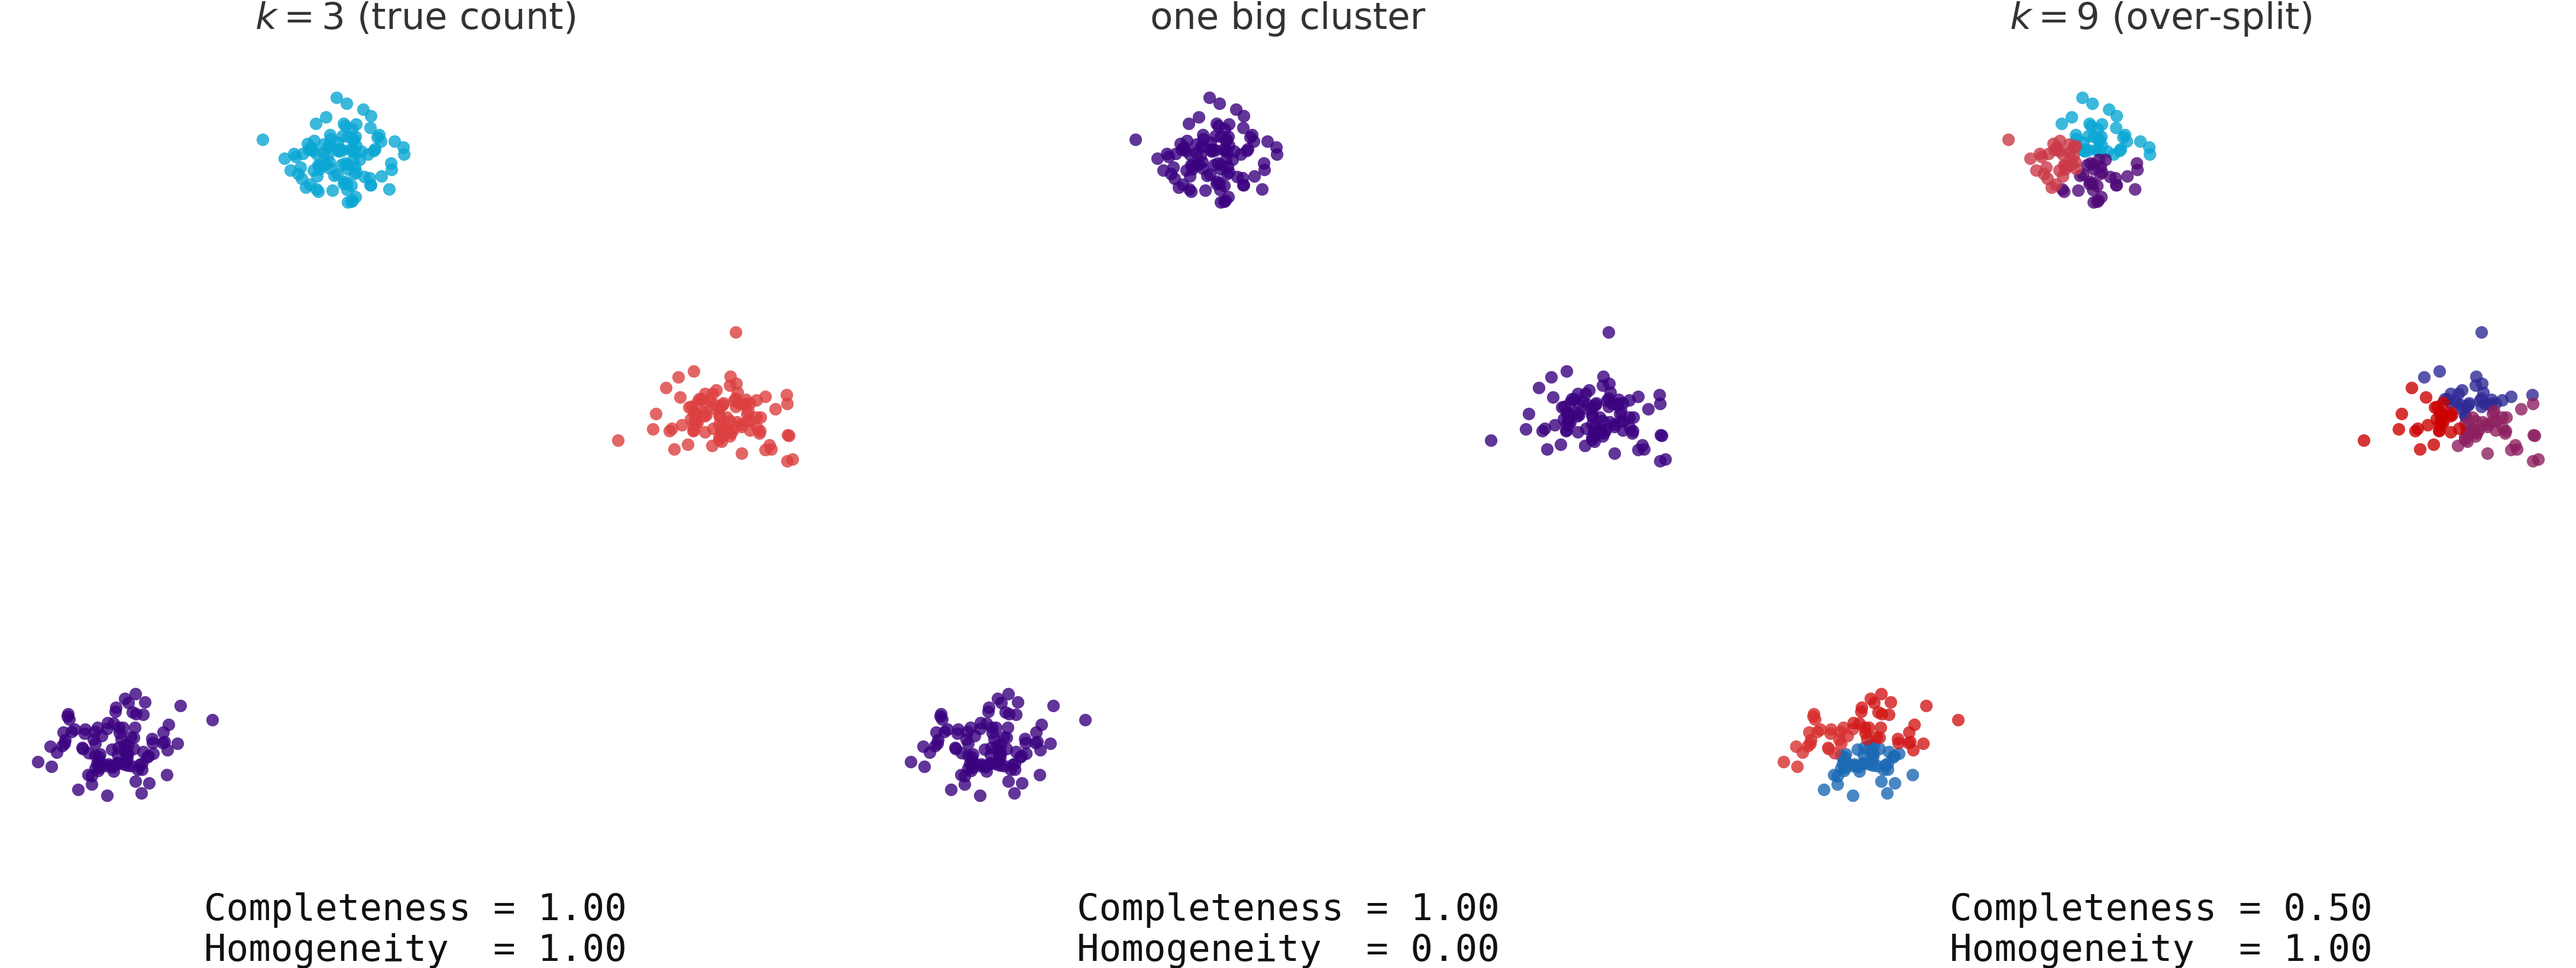
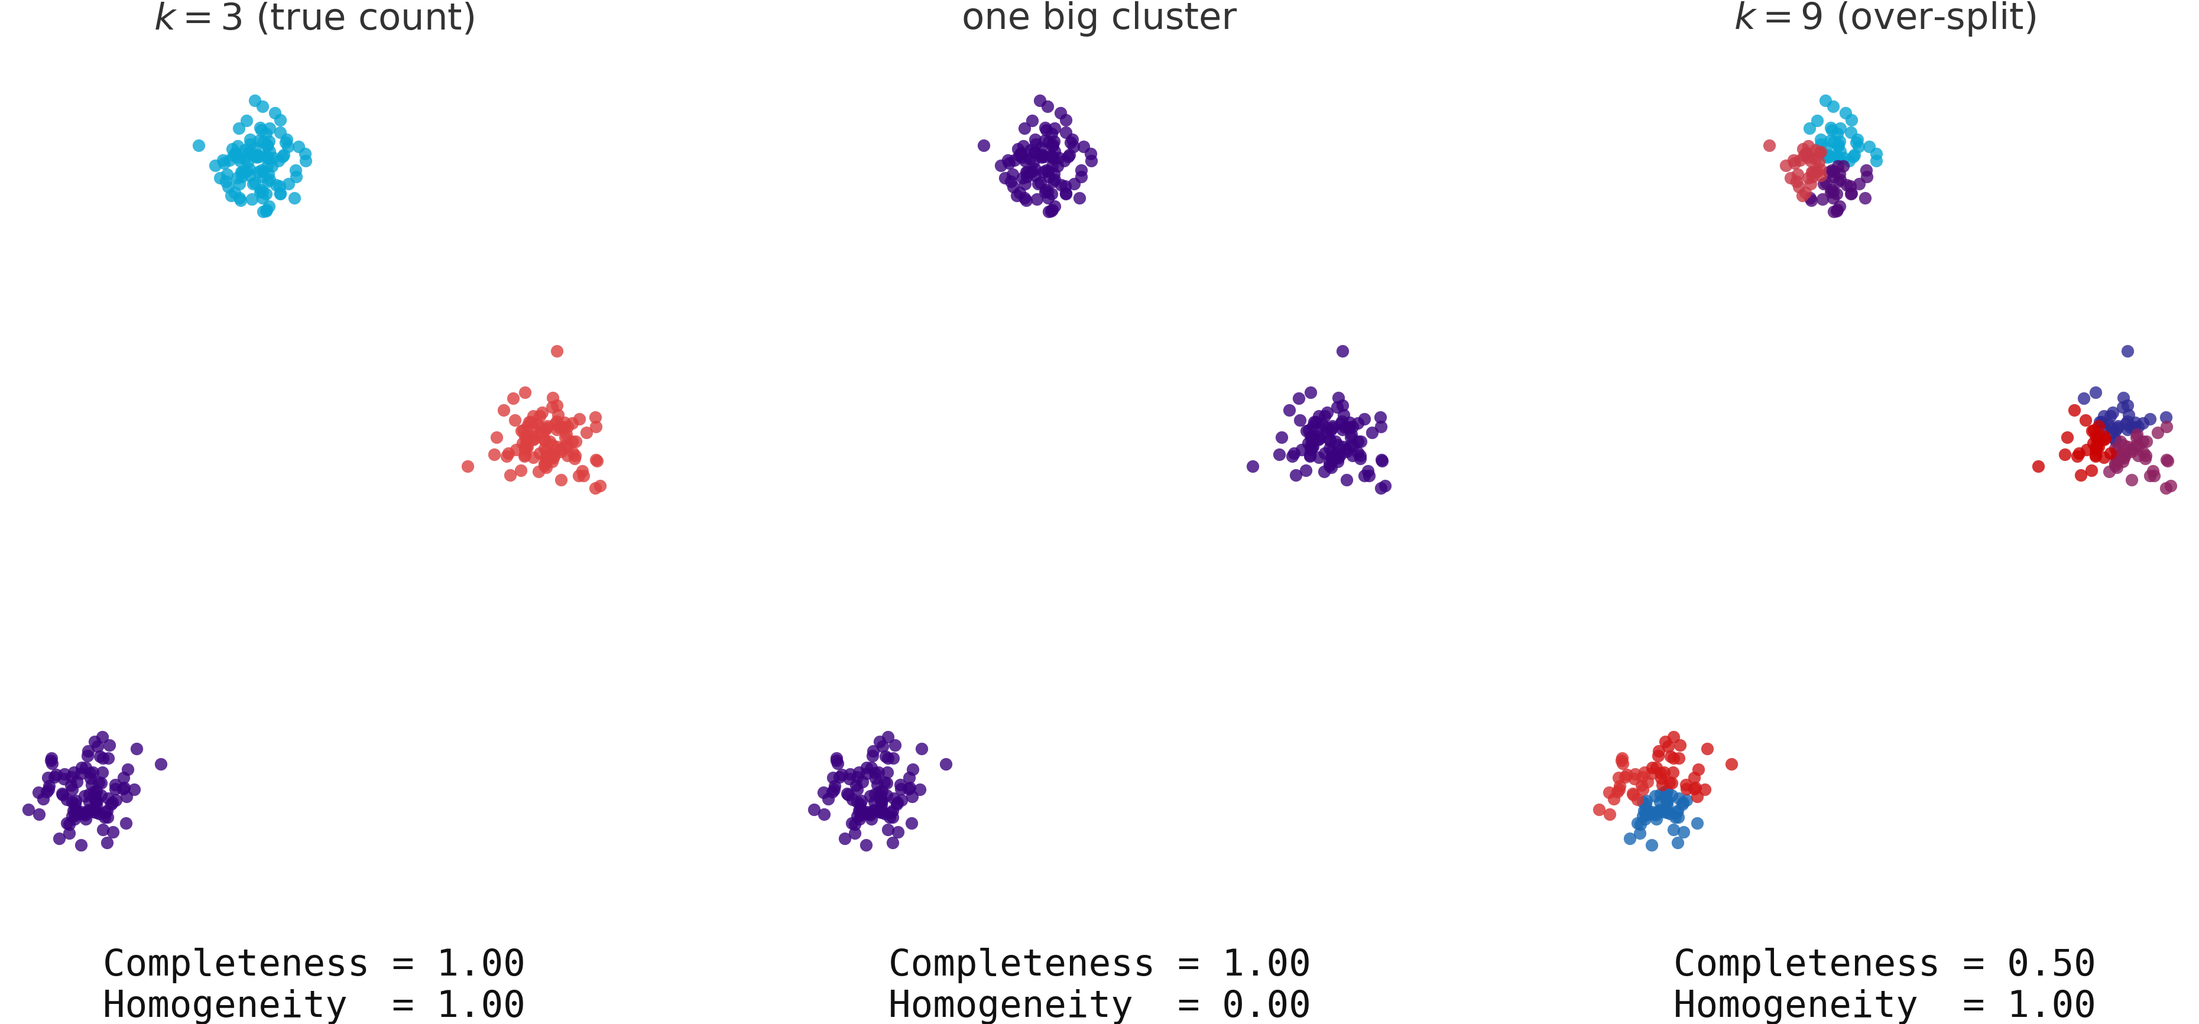
address ch4 review notes

diff --git a/book/4-clustering.tex b/book/4-clustering.tex
@@ -63,7 +63,7 @@ For cross-dataset comparison on a bounded $[0, 1]$ scale, use NMI. For chance-ad
 \section{Rand Index}
 \subsection{Rand Index}
 
-The Rand Index (RI) counts pair-agreements: out of all pairs of points, what fraction do the predicted clustering and the reference agree on --- either placing the pair together ($TP$) or apart ($TN$). Random labels on $3$ balanced classes already produce $RI \approx 0.56$, which is why the chance-corrected Adjusted Rand Index (ARI) exists.
+The Rand Index (RI) is the fraction of point pairs on which two clusterings agree --- whether they both place the pair together, or both separate them. On three balanced classes with random labels, $RI \approx 0.56$ already: most pairs are correctly apart by chance, so RI inflates regardless of clustering quality. The Adjusted Rand Index (ARI) subtracts that chance baseline, so a score of $0$ means random and $1$ means identical clusterings.
 
 \begin{center}
     \tikz{
@@ -79,7 +79,7 @@ The Rand Index (RI) counts pair-agreements: out of all pairs of points, what fra
     }
 \end{center}
 
-RI ranges from $0$ to $1$, but the chance baseline depends on the number of clusters and approaches $1$ as $k$ grows --- raw RI drifts upward regardless of clustering quality. ARI subtracts that baseline and lands on a $[-0.5, 1]$ scale: $0$ means no better than random, $1$ means identical clusterings.
+RI ranges from $0$ to $1$, but the chance baseline depends on the number of clusters and approaches $1$ as $k$ grows --- raw RI drifts upward regardless of clustering quality. ARI's chance-corrected scale runs from $-0.5$ to $1$.
 
 \textbf{When to use the Rand Index?}
 
@@ -189,7 +189,7 @@ The Contingency Matrix is the clustering analog of a confusion matrix: rows are 
     }
 \end{center}
 
-Reading the matrix is the diagnostic act: large diagonal entries mean clusters align with classes, large off-diagonals identify which classes the algorithm conflates. Row sums recover class sizes and column sums recover cluster sizes --- a mismatch between them flags imbalanced clusters.
+Large diagonal entries mean clusters align with classes; large off-diagonals identify which classes the algorithm conflates. Row sums recover class sizes and column sums recover cluster sizes --- a mismatch flags imbalanced clusters.
 
 \textbf{When to use the Contingency Matrix?}
 
@@ -215,7 +215,7 @@ When you have ground-truth labels and need to diagnose \emph{where} a clustering
 \textbf{Figure.} Contingency Matrix on a $3$-class clustering. The diagonal carries the agreement ($100$, $95$, $99$ out of $100$ per class); the off-diagonals expose the error pattern: class $1$ leaked $4$ points into cluster $0$ and $1$ point into cluster $2$. Read row by row to see where each class went.
 
 \orangebox{Did you know that...}
-{Every external clustering metric is a function of this matrix. NMI is the mutual information between row and column marginals normalized by their entropies; ARI counts agreeing pairs as a quadratic function of the entries; Homogeneity is one minus the conditional entropy of rows given columns. The contingency matrix is to clustering metrics what the confusion matrix is to classification metrics --- one table, every summary downstream.}
+{Every external clustering metric can be derived from this matrix. NMI is the mutual information between row and column marginals normalized by their entropies; ARI counts agreeing pairs as a quadratic function of the entries; Homogeneity is one minus the conditional entropy of rows given columns. The contingency matrix plays the same role for clustering metrics that the confusion matrix plays for classification ones.}
 
 \textbf{Other related metrics}
 
@@ -227,7 +227,7 @@ The Pair Confusion Matrix collapses the contingency matrix to a $2 \times 2$ tab
 \section{Pair Confusion Matrix}
 \subsection{Pair Confusion Matrix}
 
-The Pair Confusion Matrix is a $2 \times 2$ table that asks one binary question for every pair of points: do the two clusterings agree on whether the pair belongs together? It collapses arbitrary clusterings (any $k$, any $C$) into the same four-entry summary, which is the structure that powers RI, ARI, and the Fowlkes-Mallows Index.
+The Pair Confusion Matrix is a $2 \times 2$ table that summarizes, for every pair of points, whether two clusterings agree on keeping the pair together or separating it. It collapses arbitrary clusterings (any $k$, any $C$) into the same four-entry summary, which is the structure that powers RI, ARI, and the Fowlkes-Mallows Index.
 
 \begin{center}
     $\displaystyle
@@ -238,7 +238,7 @@ The Pair Confusion Matrix is a $2 \times 2$ table that asks one binary question 
     $
 \end{center}
 
-$C_{00}$ counts pairs both clusterings separated, $C_{11}$ counts pairs both kept together, and $C_{01}, C_{10}$ are the disagreements. The four entries always sum to all point pairs $\binom{n}{2}$ --- sklearn's implementation counts each pair in both orderings, so its entries sum to $n(n-1)$, a $2\times$ scaling that cancels out in every derived metric.
+$C_{00}$ counts pairs both clusterings separated, $C_{11}$ counts pairs both kept together, and $C_{01}, C_{10}$ are the two kinds of disagreement. The four entries together cover every pair, so the matrix is a complete partition of the pairwise decisions.
 
 \textbf{When to use the Pair Confusion Matrix?}
 
@@ -264,40 +264,14 @@ When you want to debug a clustering at the pair-counting level --- to see whethe
 
 \textbf{Figure.} Pair Confusion Matrix on a $300$-point clustering: $C_{00} = 58{,}812$ pairs separated by both clusterings, $C_{11} = 28{,}544$ pairs kept together, and roughly $1{,}200$ disagreements each way. The diagonal dominates because pairs that should be apart vastly outnumber pairs that should be together --- exactly the $TN$-heavy baseline that inflates raw RI and motivates ARI's chance correction.
 
-To see how the matrix is built, take a $4$-point clustering:
-\[
-\begin{array}{l|cccc}
-    & obj_{1} & obj_{2} & obj_{3} & obj_{4} \\
-\hline
-\text{true} & 0 & 0 & 1 & 0 \\
-\text{pred} & 0 & 1 & 0 & 1 \\
-\end{array}
-\]
-
-Each ordered pair is classified by checking same/different in both clusterings:
-\begin{itemize}
-    \item $C_{00}$ (separated by both): $(obj_{2}, obj_{3})$, $(obj_{3}, obj_{4})$ and their reverses $= 4$
-    \item $C_{11}$ (kept together by both): $(obj_{2}, obj_{4})$ and reverse $= 2$
-    \item $C_{10}$ (same true, different predicted): $(obj_{1}, obj_{2})$, $(obj_{1}, obj_{4})$ and reverses $= 4$
-    \item $C_{01}$ (different true, same predicted): $(obj_{1}, obj_{3})$ and reverse $= 2$
-\end{itemize}
-
-\begin{center}
-    \[
-        C =
-        \begin{bmatrix}
-            4 & 2 \\
-            4 & 2
-        \end{bmatrix}
-    \]
-\end{center}
+When $C_{01} \gg C_{10}$, the algorithm is over-merging (false positives on the ``same cluster'' decision) and pair-wise precision drops; when $C_{10} \gg C_{01}$ it's over-splitting and pair-wise recall drops. So even when the two clusterings get a similar RI score, the imbalance between $C_{01}$ and $C_{10}$ tells you \emph{how} they fail.
 
 \orangebox{Did you know that...}
-{This matrix is the source for every pair-counting metric. $RI = (C_{00} + C_{11}) / n(n-1)$ is literally classification accuracy applied to the pair-by-pair decision; ARI rescales the same quantity for chance; the Fowlkes-Mallows Index takes a geometric mean of pairwise precision and recall; the Jaccard variant drops $C_{00}$ to avoid the imbalance issue. Four entries, an entire family of metrics.}
+{This matrix is the source for every pair-counting metric. $RI$ is the fraction of pairs on the diagonal; ARI rescales the same quantity for chance; the Fowlkes-Mallows Index takes a geometric mean of pairwise precision and recall computed from the same four entries; the Jaccard variant drops $C_{00}$ to avoid inflation from the typically dominant ``both apart'' count.}
 
 \textbf{Other related metrics}
 
-When $C_{01} \gg C_{10}$, the algorithm is over-merging (false positives on the ``same cluster'' decision) and pair-wise precision drops; when $C_{10} \gg C_{01}$ it's over-splitting, and pair-wise recall drops --- FMI surfaces that asymmetry directly. The Contingency Matrix gives the same information at the class level rather than the pair level; use it when the diagnostic needs to identify \emph{which} classes are conflated, not just \emph{how many} pairs are wrong.
+The Fowlkes-Mallows Index surfaces the precision-recall asymmetry between $C_{01}$ and $C_{10}$ as a single number, useful when one direction of error matters more. The Contingency Matrix gives the same information at the class level rather than the pair level; use it when the diagnostic needs to identify \emph{which} classes are conflated, not just \emph{how many} pairs are wrong.
 
 % ---------- Completeness Score ----------
 \clearpage
@@ -305,7 +279,7 @@ When $C_{01} \gg C_{10}$, the algorithm is over-merging (false positives on the 
 \section{Completeness Score}
 \subsection{Completeness Score}
 
-The Completeness Score asks one question: are all members of a true class together in the same cluster? It is asymmetric --- lumping every point into one giant cluster scores Completeness $= 1$ trivially, even though the clustering conveys no information. This is why Completeness is always reported alongside Homogeneity, never alone.
+The Completeness Score measures whether all members of a true class end up in the same cluster. It is asymmetric: lumping every point into one giant cluster gives Completeness $= 1$ trivially, because every class is contained somewhere. That's why Completeness is always reported alongside Homogeneity.
 
 \begin{center}
     \tikz{
@@ -361,7 +335,7 @@ Completeness and Homogeneity always need to be read together; one without the ot
 \section{Homogeneity Score}
 \subsection{Homogeneity Score}
 
-The Homogeneity Score is the mirror question of Completeness: is each cluster made of points from a single true class? It's asymmetric --- splitting every point into its own cluster gives Homogeneity $= 1$ trivially, because every one-point cluster is pure by definition, even when the clustering reveals no structure. This is why Homogeneity is always paired with Completeness, never reported alone.
+The Homogeneity Score is the mirror of Completeness: it measures whether each cluster contains points from only one true class. It is asymmetric the other way --- splitting every point into its own cluster gives Homogeneity $= 1$ trivially, because a one-point cluster is pure by definition. Always paired with Completeness.
 
 \begin{center}
     \tikz{
@@ -531,7 +505,7 @@ The Silhouette Score is the other label-free option, costing $O(n^2)$ but handli
 \section{FMI}
 \subsection{Fowlkes-Mallows Index}
 
-The Fowlkes-Mallows Index (FMI) is the geometric mean of pairwise precision and recall. For every pair of points, it asks whether the two clusterings agreed on placing them together; FMI scores how often they did, relative to how often each clustering said ``together'' on its own. The geometric mean structure rewards balance --- if either pair-wise precision or recall is low, FMI drops.
+The Fowlkes-Mallows Index (FMI) is the geometric mean of pairwise precision and recall on the ``same cluster'' decision. The geometric mean rewards balance: if either pair-wise precision or recall is low, FMI drops --- one-sided clusterings cannot hide behind a strong score in just one direction.
 
 \begin{center}
     \tikz{
@@ -547,11 +521,11 @@ The Fowlkes-Mallows Index (FMI) is the geometric mean of pairwise precision and 
     }
 \end{center}
 
-FMI ranges from $0$ to $1$. Unlike raw RI, it does not inflate trivially --- one-sided clusterings get penalized because the geometric mean is bounded above by the smaller of pair-wise precision and recall. Like RI, however, FMI is not chance-adjusted; use AMI or ARI when cross-dataset comparison or a meaningful chance baseline matters.
+FMI ranges from $0$ to $1$ and is bounded above by the smaller of pair-wise precision and recall. It is not chance-adjusted: random clusterings on $k$ balanced classes score roughly $1/k$ by chance, so use ARI when that baseline matters.
 
 \textbf{When to use the FMI?}
 
-When you want a balanced pair-counting score that drops faster than raw RI on partial agreement and chance correction is not essential. Useful for hierarchical clustering evaluation where partial structure matters. Avoid FMI alone for chance-sensitive comparisons --- random clusterings can score $0.3$ or more by chance; use ARI for the chance-corrected pair-counting alternative.
+When you want a balanced pair-counting score and chance correction is not essential. Useful for hierarchical clustering evaluation where partial structure matters. Avoid FMI alone for chance-sensitive comparisons; use ARI as the chance-corrected pair-counting alternative.
 
 \enlargethispage{\baselineskip}
 \coloredboxes{
@@ -589,7 +563,7 @@ FMI is the pair-counting cousin of RI and ARI. When FMI is high but ARI is low, 
 \section{Silhouette Score}
 \subsection{Silhouette Score}
 
-The Silhouette Score asks one question per point: are you closer to the rest of your cluster, or to the nearest other cluster? Averaging the per-point silhouette gives a score in $[-1, 1]$: $+1$ means every point clearly belongs where it was assigned, $0$ means points sit on cluster boundaries, $-1$ means points have been placed in the wrong cluster.
+The Silhouette Score compares each point's distance to other points in its own cluster against its distance to the nearest other cluster. Averaging across all points gives a score in $[-1, 1]$: near $+1$ means tight, well-separated clusters; near $0$ means points sit on boundaries; below $0$ means points have been placed in the wrong cluster.
 
 \begin{center}
 \tikz{
@@ -633,7 +607,7 @@ When you have no labels, need to handle non-convex clusters or non-Euclidean dis
     \includegraphics[width=\textwidth]{figures/Silhouette_Score_comparison.png}
 \end{figure*}
 
-\textbf{Figure.} Silhouette plots for well-separated ($S = 0.88$) vs overlapping ($S = 0.63$) clusterings. Each horizontal bar is a single point's silhouette, sorted within its cluster; the dashed line marks the dataset average. The overlapping case has many points near $0$ (boundary points) --- the per-point view shows exactly which points are ambiguous, which the average $S$ alone would hide.
+\textbf{Figure.} Silhouette plots for well-separated ($S = 0.88$) vs overlapping ($S = 0.63$) clusterings. Each horizontal bar is one point's silhouette $s(i)$; bars are sorted within their cluster, so the cluster's ``blade'' tapers from low to high silhouette. A tight, near-square blade (left panel) means most points sit comfortably in their cluster; a long tapered tail toward $0$ (right panel) means many points are near a cluster boundary. The dashed line is the dataset average.
 
 \orangebox{Did you know that...}
 {The silhouette plot is the actual practitioner tool, not the average score. The shape of the plot tells you more than the number: a single cluster with mostly low silhouette flags one bad cluster; uniformly mediocre silhouette across every cluster means the geometry isn't separable in this feature space; a few negative bars within an otherwise good cluster point to specific misassigned samples. The average collapses all three stories into one number.}

diff --git a/notebooks/silhouette_plot.py b/notebooks/silhouette_plot.py
@@ -1,0 +1,88 @@
+"""Tufte-style silhouette plot for the Silhouette Score page."""
+
+import sys
+from pathlib import Path
+
+import matplotlib.pyplot as plt
+import numpy as np
+from sklearn.cluster import KMeans
+from sklearn.datasets import make_blobs
+from sklearn.metrics import silhouette_samples, silhouette_score
+
+sys.path.insert(0, str(Path(__file__).resolve().parent))
+from style import NML_CYAN, NML_PURPLE, NML_RED, save_figure
+
+X_good, _ = make_blobs(n_samples=300, centers=3, cluster_std=0.8, random_state=42)
+X_bad, _ = make_blobs(n_samples=300, centers=3, cluster_std=2.5, random_state=42)
+
+km_good = KMeans(n_clusters=3, random_state=42, n_init=10).fit(X_good)
+km_bad = KMeans(n_clusters=3, random_state=42, n_init=10).fit(X_bad)
+
+colors_list = [NML_CYAN, NML_PURPLE, NML_RED]
+
+
+def plot_panel(ax, X, labels, title):
+    sil_values = silhouette_samples(X, labels)
+    avg = silhouette_score(X, labels)
+    n_clusters = len(set(labels))
+
+    y_lower = 5
+    y_center_positions = []
+    cluster_labels = []
+    for i in range(n_clusters):
+        cluster_sil = np.sort(sil_values[labels == i])
+        n_in_cluster = len(cluster_sil)
+        y_upper = y_lower + n_in_cluster
+        ax.fill_betweenx(
+            np.arange(y_lower, y_upper),
+            0,
+            cluster_sil,
+            facecolor=colors_list[i],
+            alpha=0.7,
+            linewidth=0,
+        )
+        y_center_positions.append((y_lower + y_upper) / 2)
+        cluster_labels.append(f"cluster {i}")
+        y_lower = y_upper + 12
+
+    ax.axvline(x=avg, color="#444444", linestyle="--", linewidth=1.2)
+    ax.text(
+        avg,
+        y_lower + 4,
+        f"average = {avg:.2f}",
+        color="#222222",
+        fontsize=13,
+        ha="center",
+        va="bottom",
+    )
+
+    for sp in ["top", "right"]:
+        ax.spines[sp].set_visible(False)
+    ax.spines["left"].set_color("#666666")
+    ax.spines["bottom"].set_color("#666666")
+    ax.set_yticks(y_center_positions)
+    ax.set_yticklabels(cluster_labels, fontsize=13, color="#222222")
+    ax.tick_params(axis="x", colors="#444444", labelsize=13, length=4)
+    ax.tick_params(axis="y", length=0)
+    ax.set_xlabel("silhouette coefficient $s(i)$", fontsize=14, color="#222222")
+    ax.set_xlim(-0.3, 1)
+    ax.set_ylim(0, y_lower + 20)
+    ax.set_title(title, fontsize=15, loc="left", pad=12, color="#333333")
+
+
+fig, axes = plt.subplots(1, 2, figsize=(14, 6), gridspec_kw={"wspace": 0.2})
+
+plot_panel(
+    axes[0],
+    X_good,
+    km_good.labels_,
+    f"well-separated (avg $S = {silhouette_score(X_good, km_good.labels_):.2f}$)",
+)
+plot_panel(
+    axes[1],
+    X_bad,
+    km_bad.labels_,
+    f"overlapping (avg $S = {silhouette_score(X_bad, km_bad.labels_):.2f}$)",
+)
+
+save_figure(fig, "Silhouette_Score_comparison")

diff --git a/notebooks/rand_index_plot.py b/notebooks/rand_index_plot.py
@@ -40,7 +40,7 @@ print(f"well-separated:  RI={ri_sep:.3f}  ARI={ari_sep:.3f}")
 print(f"overlapping:     RI={ri_over:.3f}  ARI={ari_over:.3f}")
 print(f"random labels:   RI={ri_rand:.3f}  ARI={ari_rand:.3f}")
 
-fig, axes = plt.subplots(1, 3, figsize=(15, 5.5))
+fig, axes = plt.subplots(1, 3, figsize=(16, 5.5), gridspec_kw={"wspace": 0.25})
 
 panels = [
     (axes[0], X_sep, pred_sep, ri_sep, ari_sep, "well-separated"),
@@ -62,17 +62,16 @@ for ax, X, pred, ri, ari, label in panels:
         ax.spines[sp].set_visible(False)
     ax.set_xticks([])
     ax.set_yticks([])
-    ax.set_title(label, fontsize=16, loc="left", pad=10, color="#333333")
+    ax.set_title(label, fontsize=16, loc="center", pad=14, color="#333333")
     ax.text(
-        0.03,
-        0.97,
-        f"RI  = {ri:.2f}\nARI = {ari:+.2f}",
+        0.5,
+        -0.08,
+        f"RI  = {ri:.2f}    ARI = {ari:+.2f}",
         transform=ax.transAxes,
-        fontsize=17,
+        fontsize=16,
         family="monospace",
-        verticalalignment="top",
+        ha="center",
+        va="top",
         color="#111111",
     )
-
-plt.tight_layout()
 save_figure(fig, "Rand_Index_separation")

diff --git a/notebooks/completeness_plot.py b/notebooks/completeness_plot.py
@@ -36,7 +36,7 @@ print(f"C k=9:      C={c_c:.2f}  H={h_c:.2f}")
 palette_3 = [NML_CYAN, NML_PURPLE, NML_RED]
 palette_9 = [nml_cmap(i / 8) for i in range(9)]
 
-fig, axes = plt.subplots(1, 3, figsize=(15, 6))
+fig, axes = plt.subplots(1, 3, figsize=(16, 6), gridspec_kw={"wspace": 0.25})
 
 panels = [
     (axes[0], pred_a, palette_3, c_a, h_a, "$k = 3$ (true count)"),
@@ -71,5 +71,4 @@ for ax, pred, palette, comp, hom, label in panels:
         va="top",
     )
 
-plt.tight_layout()
 save_figure(fig, "Completeness_Score_tradeoff")
